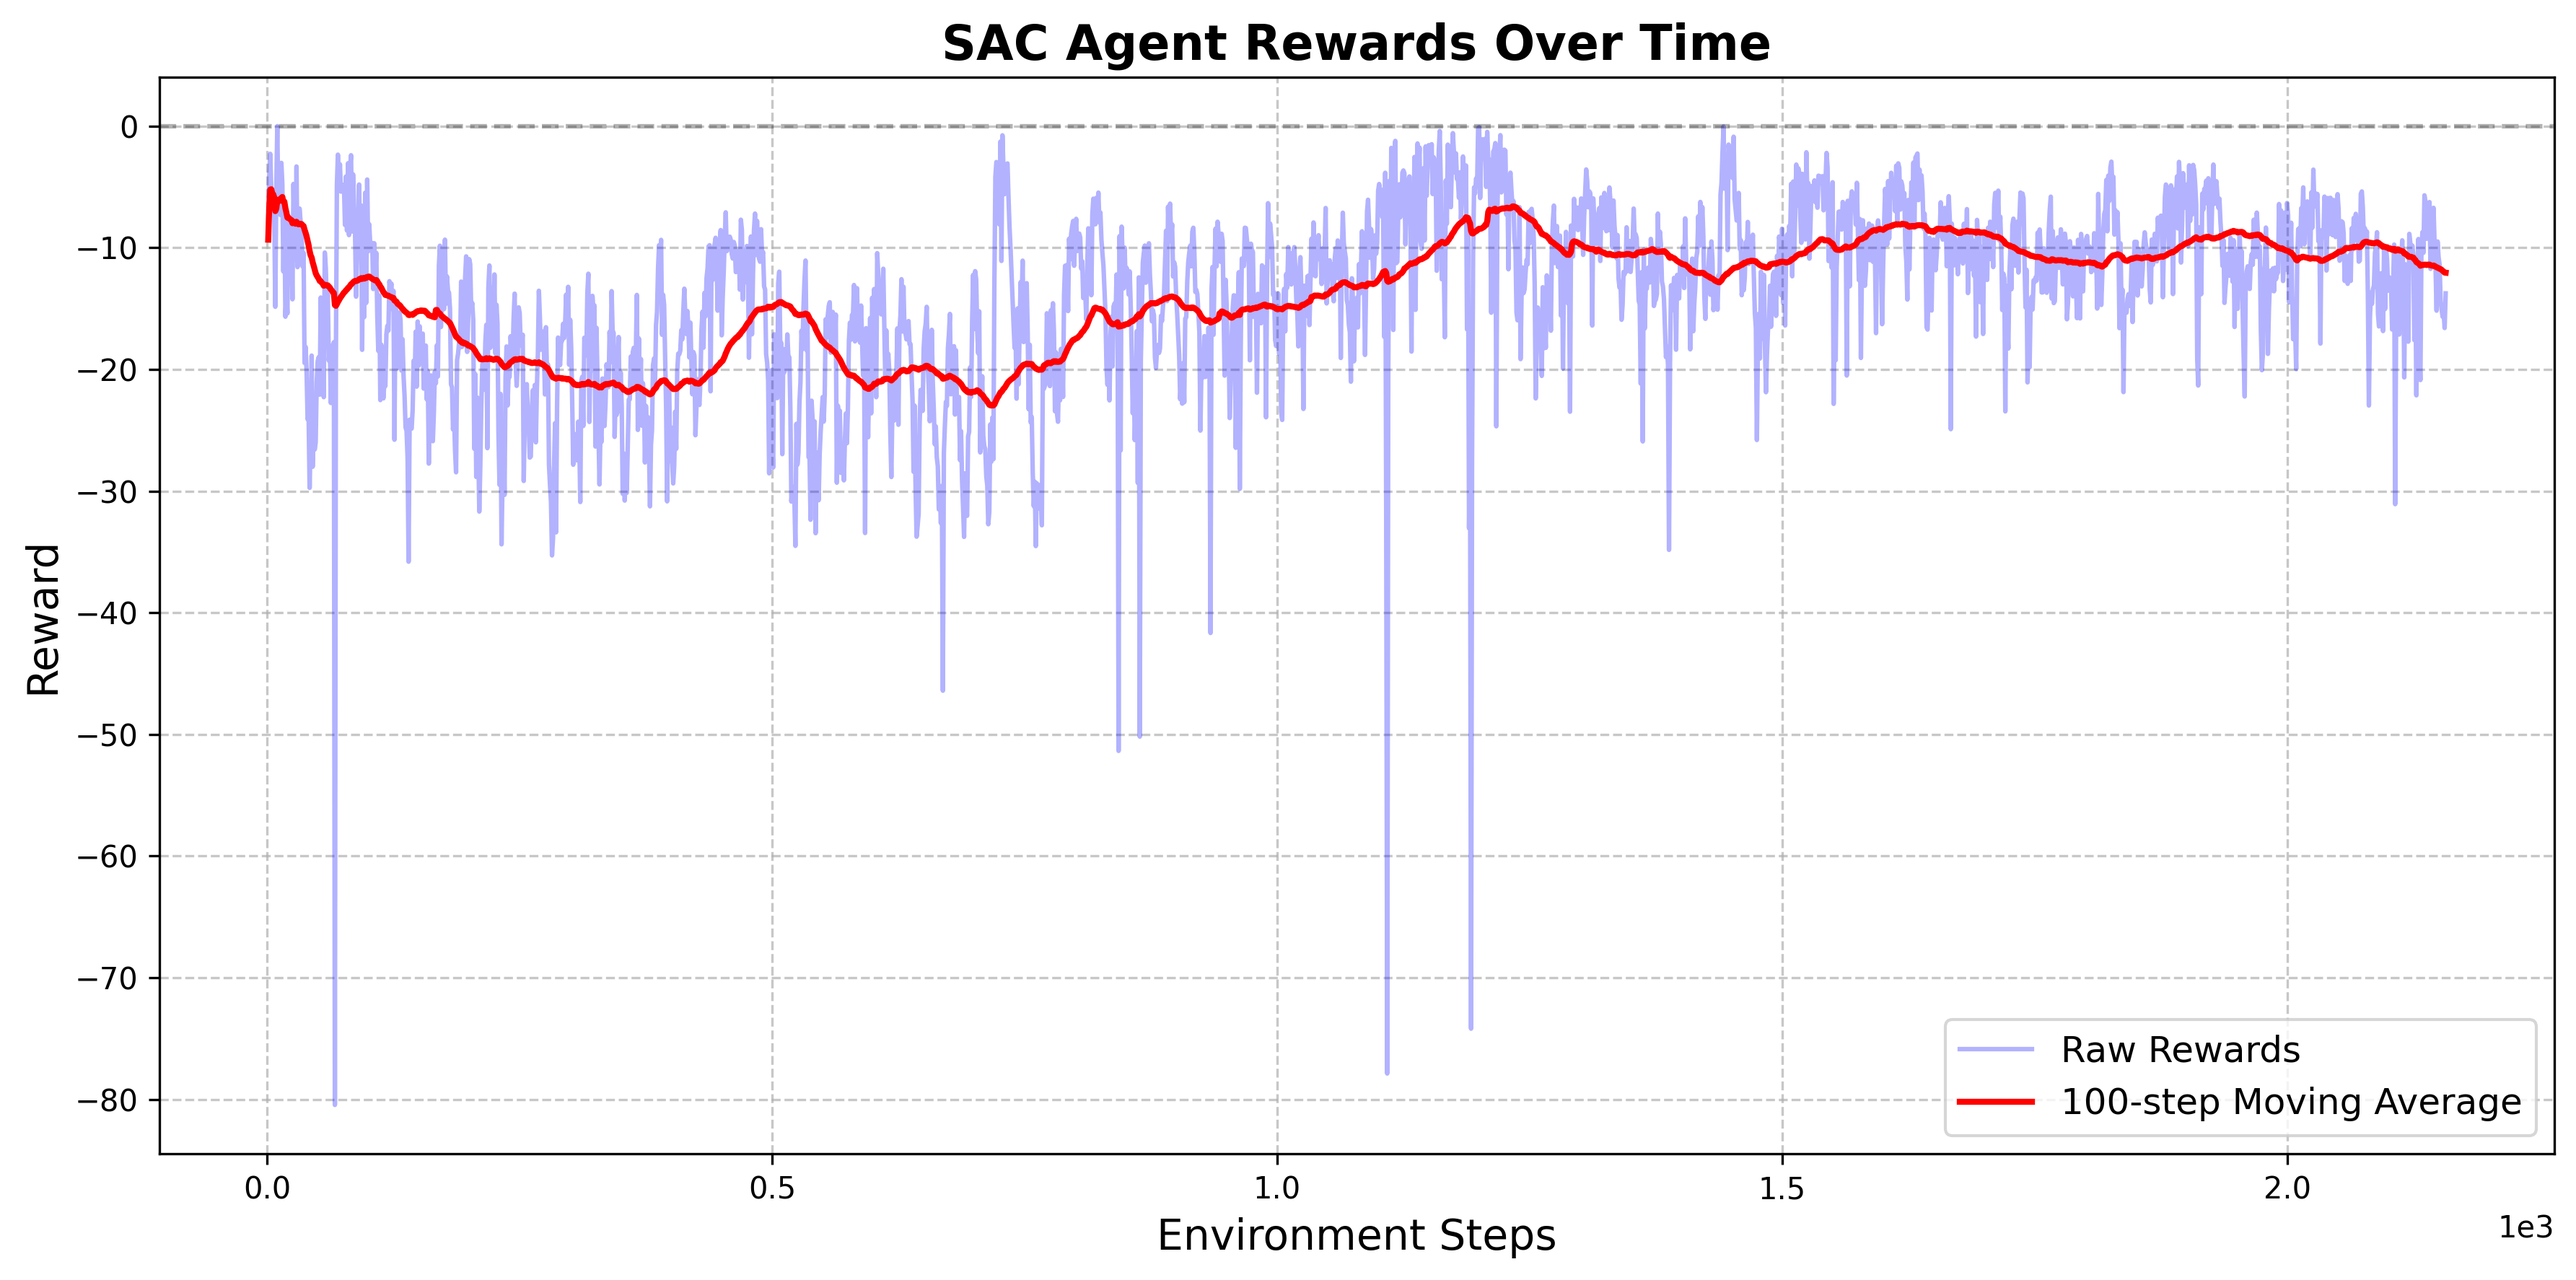
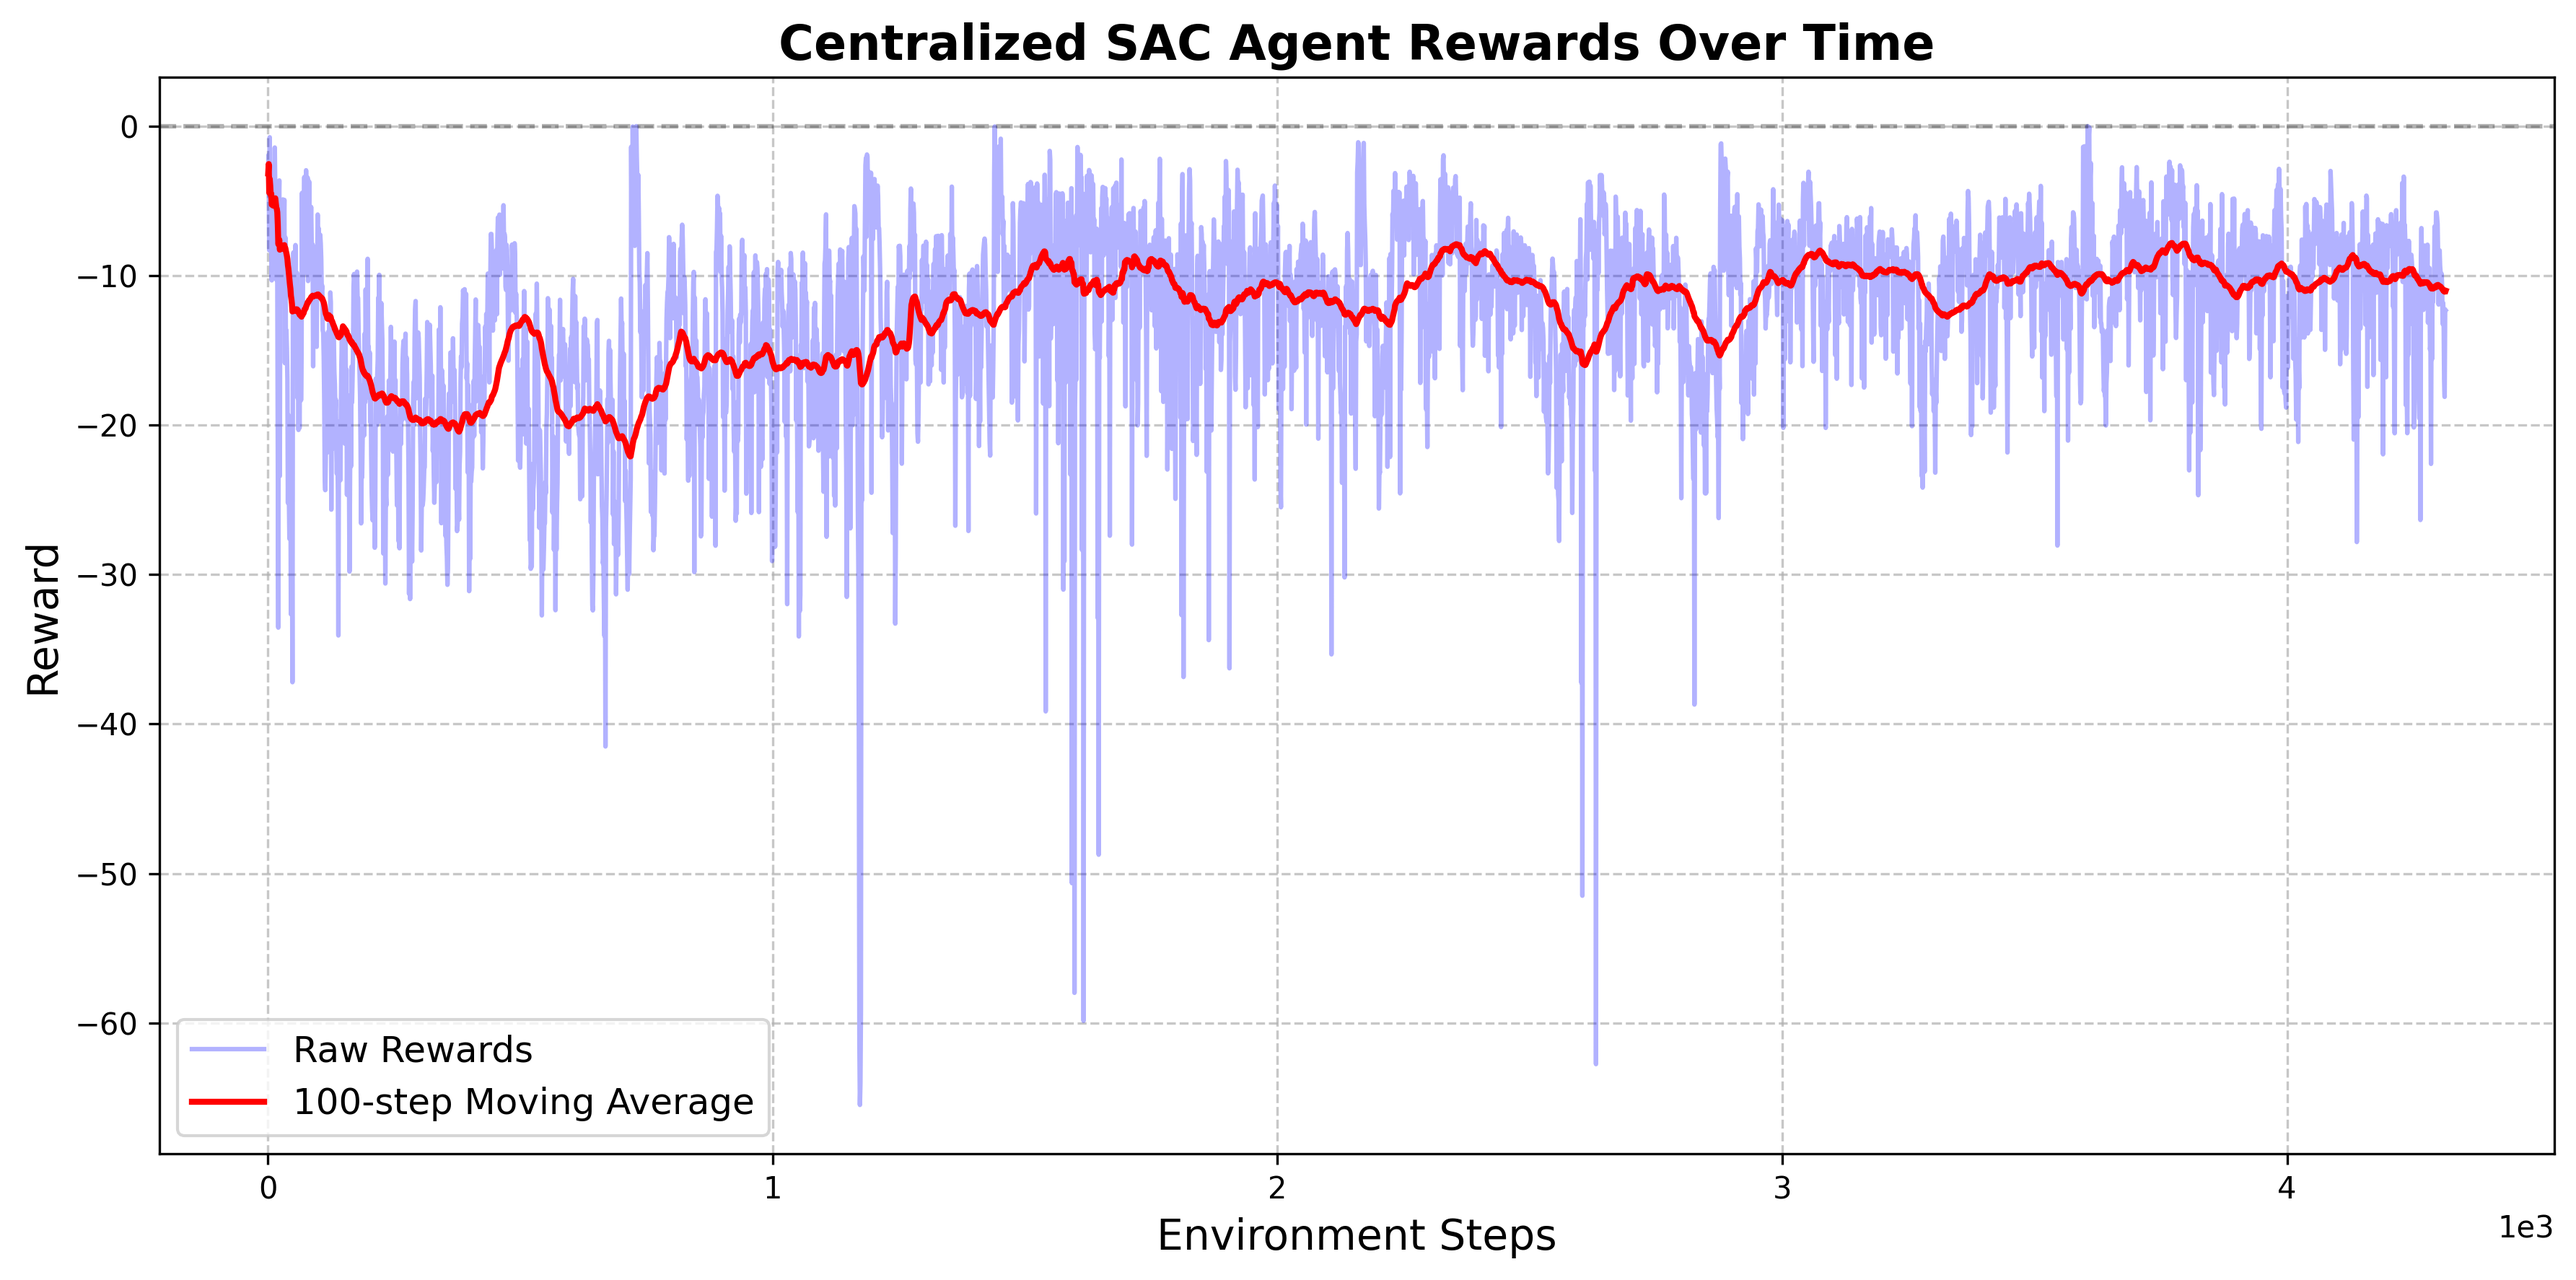
cleaning the training file, and training and plotting both SAC versions works

diff --git a/src/test_decentral_sac.py b/src/test_decentral_sac.py
@@ -6,6 +6,7 @@ import pandas as pd
 import torch
 from citylearn.citylearn import CityLearnEnv
 from matplotlib import pyplot as plt
+from typing import List
 
 from agents.sac import SACAgent
 
@@ -13,28 +14,29 @@ def train_sac_agent(
     env: CityLearnEnv, 
     agents: list[SACAgent], 
     episodes: int = 100, 
-    decentralized = False
+    central_agent = False
 ) -> None:
     """Train SAC agent in the environment"""
-    total_reward = 0
     
     reward_list = []
+    day_rewards = []
     episode_rewards = []  # List to store episode rewards
+
     
     for episode in range(episodes):
         # Reset environment and get initial observation
         observation = env.reset()
-        print(len(observation[0]))
 
         episode_reward = 0
+        curr_day_reward = 0
         
         while not env.done:
-            if not decentralized:
+            if central_agent:
                 flat_observation = np.concatenate(observation) if isinstance(observation, list) else observation
 
             
             # select actions based on different paradigms
-            if decentralized:
+            if not central_agent:
                 actions = [0 for _ in range(len(agents))]
                 
                 for i in range(len(agents)):
@@ -51,13 +53,19 @@ def train_sac_agent(
             next_observation, reward, info, done = env.step(actions)
             
             reward_list.append(np.sum(reward))
+            curr_day_reward += np.sum(reward)
+            
+            if agent.total_steps % 24 == 0:
+                day_rewards.append(curr_day_reward)
+                curr_day_reward = 0
+            
 
-            if not decentralized:       
+            if central_agent:      
                 flat_next_observation = np.concatenate(next_observation) if isinstance(next_observation, list) else next_observation
             
             episode_reward += np.sum(reward)
 
-            if decentralized:
+            if not central_agent:
                 for i in range(len(agents)):
                     agents[i].replay_buffer.push(
                         observation[i], 
@@ -83,24 +91,26 @@ def train_sac_agent(
             
             observation = next_observation
 
-        total_reward += episode_reward
         episode_rewards.append(episode_reward)
-        print(total_reward)
         
         print(f"Episode {episode+1}/{episodes}, Total Reward: {episode_reward}")
     
-    return reward_list, episode_rewards
+    return reward_list, episode_rewards, day_rewards
 
 
 def set_seed(seed: int = 0) -> None:
-    """ Set seed. """
+    """ Set a seed used in the simulation. """
     np.random.seed(seed)
     random.seed(seed)
     torch.manual_seed(seed)
     
 
 def create_environment(central_agent: bool = True, SEED = 0, path: str = "data/citylearn_challenge_2023_phase_1"):
-    """ Creates the CityLearn environment. """
+    """ 
+    Creates the CityLearn environment. 
+    Args:
+           
+    """
     
     set_seed(SEED)
     root_directory = Path(path)
@@ -109,7 +119,6 @@ def create_environment(central_agent: bool = True, SEED = 0, path: str = "data/c
         raise ValueError(f"Path {path} does not exist")
     
     schema_path = root_directory / "schema.json"
-    schema_path = path
     env = CityLearnEnv(
         schema=schema_path,
         root_directory=root_directory,
@@ -124,19 +133,29 @@ def create_agents(env: CityLearnEnv, central_agent: bool = False,
                   learning_rate: float = 3e-4, gamma: float = 0.99,
                   tau: float = 0.01, alpha: float = 0.05,
                   batch_size: int = 256,
-                  exploration_timesteps: int = 0):
+                  exploration_timesteps: int = 0) -> SACAgent | List:
     """
     Creates the agents with the given specification.
     Args:
-        
-    
+        env: The CityLearn environment.
+        central_agent: Whether to create a central agent. 
+        hidden_dim: The hidden dimension of the network for the SAC agent.
+        buffer_size: The replay buffer size. 
+        learning_rate: The learning rate for the SAC agent. 
+        gamma: The discount factor for the SAC agent. 
+        tau: The target network update rate for the SAC agent. 
+        alpha: The temperature parameter for the SAC agent. 
+        batch_size: The batch size used for the SAC agent.
+        exploration_timesteps: The number of exploration timesteps for the SAC agent.
+    Returns:
+        Agent or a list of agents
     """
     if central_agent:
-        observation_space_dim = 49
+        observation_space_dim = 77
         action_space_dim = 18
         building_number = 1
     else:
-        observation_space_dim = 29
+        observation_space_dim = 39
         action_space_dim = 6 
         building_number = 3
     
@@ -159,48 +178,69 @@ def create_agents(env: CityLearnEnv, central_agent: bool = False,
         )
     return agents
     
-if __name__ == "__main__":
     
-    # Create the environments
-    centralized_env = create_environment(central_agent=True, SEED=0,  path="data/citylearn_challenge_2023_phase_1")
-    decentralized_env = create_environment(central_agent=False, SEED=0,  path="data/citylearn_challenge_2023_phase_1")
+def plot_rewards(rewards: list[float], agent_type: str = "centralized", plot_folder: str = "plots/") -> None:
+    """ 
+    Plots the rewards for different agent types.
     
-    # Create the agents
-    centralized_agent = create_agents(centralized_env, central_agent=True)
-    decentralized_agent = create_agents(decentralized_env, central_agent=False)
+    Args:
+        rewards: List of rewards to plot
+        agent_type: Type of agent ("centralized", "decentralized", or "both")
+    """
+    valid_types = ["centralized", "decentralized", "both"]
+    if agent_type.lower() not in valid_types:
+        raise ValueError(f"agent_type must be one of {valid_types}")
     
-    # Train the agent
-    rewards, episode_rewards = train_sac_agent(decentralized_env, decentralized_agent, episodes=6, decentralized=True)
+    rewards = np.array(rewards)
+    steps = range(1, len(rewards) + 1)
     
-    # TODO: CONVERT TO FUNCTION
-    # Convert rewards list to numpy array for easier manipulation
-    summed_rewards = np.array(rewards)  # rewards is your list of reward lists
-    steps = range(1, len(summed_rewards) + 1)
-
-    # Create the plot
     plt.figure(figsize=(12, 6))
-
+    
     # Plot raw rewards
-    plt.plot(steps, summed_rewards, alpha=0.3, color='blue', label='Raw Rewards')
-
+    plt.plot(steps, rewards, alpha=0.3, color='blue', label='Raw Rewards')
+    
     # Add rolling average
-    window_size = 100  # Adjust this value based on your needs
-    rolling_mean = pd.Series(summed_rewards).rolling(window=window_size, min_periods=1).mean()
+    window_size = 100
+    rolling_mean = pd.Series(rewards).rolling(window=window_size, min_periods=1).mean()
     plt.plot(steps, rolling_mean, color='red', linewidth=2, label=f'{window_size}-step Moving Average')
-
-    # Customize the plot
-    plt.title("Decentralized SAC Agent Rewards Over Time", fontsize=16, fontweight='bold')
+    
+    title_prefix = {
+        "centralized": "Centralized",
+        "decentralized": "Decentralized",
+        "both": "Centralized vs Decentralized"
+    }
+    plt.title(f"{title_prefix[agent_type.lower()]} SAC Agent Rewards Over Time", 
+              fontsize=16, fontweight='bold')
+    
     plt.xlabel("Environment Steps", fontsize=14)
     plt.ylabel("Reward", fontsize=14)
     plt.grid(True, linestyle='--', alpha=0.7)
     plt.legend(fontsize=12)
-
-    # Optional: Add horizontal line at y=0 for reference
+    
     plt.axhline(y=0, color='k', linestyle='--', alpha=0.3)
-
-    # Optional: Use scientific notation for large numbers on x-axis
+    
     plt.ticklabel_format(axis='x', scilimits=(0,0))
-
+    
     plt.tight_layout()
-    plt.savefig("step_rewards_decentralized.png", dpi=300, bbox_inches='tight')
+    #save in directory plots
+    save_path = plot_folder + f"step_rewards_{agent_type.lower()}.png"
+    plt.savefig(save_path, dpi=300, bbox_inches='tight')
     plt.show()
+
+if __name__ == "__main__":
+    
+    # Create the environments
+    centralized_env = create_environment(central_agent=True, SEED=0,  path="data/citylearn_challenge_2023_phase_1")
+    #decentralized_env = create_environment(central_agent=False, SEED=0,  path="data/citylearn_challenge_2023_phase_1")
+    
+    # Create the agents
+    centralized_agent = create_agents(centralized_env, central_agent=True)
+    #decentralized_agent = create_agents(decentralized_env, central_agent=False)
+    
+    # Train the agent
+    rewards_centralized, episode_rewards_centralized, daily_rewards_centralized = train_sac_agent(centralized_env, centralized_agent, episodes=6, central_agent=True)
+    #rewards_decentralized, episode_rewards_decentralized = train_sac_agent(decentralized_env, decentralized_agent, episodes=6, central_agent=False)
+    
+    # Plot the rewards
+    plot_rewards(daily_rewards_centralized, agent_type="centralized", plot_folder="plots/")
+    #plot_rewards(rewards_decentralized, agent_type="decentralized", plot_folder="plots/")

diff --git a/src/agents/sac_encoder.py b/src/agents/sac_encoder.py
@@ -1,0 +1,11 @@
+import numpy as np
+import torch
+import torch.nn.functional as F
+import torch.optim as optim
+from torch import nn
+
+from agents.base_agent import Agent
+from utils.replay_buffer import ReplayBuffer
+
+class SACEncoder(nn.Module):
+    pass
